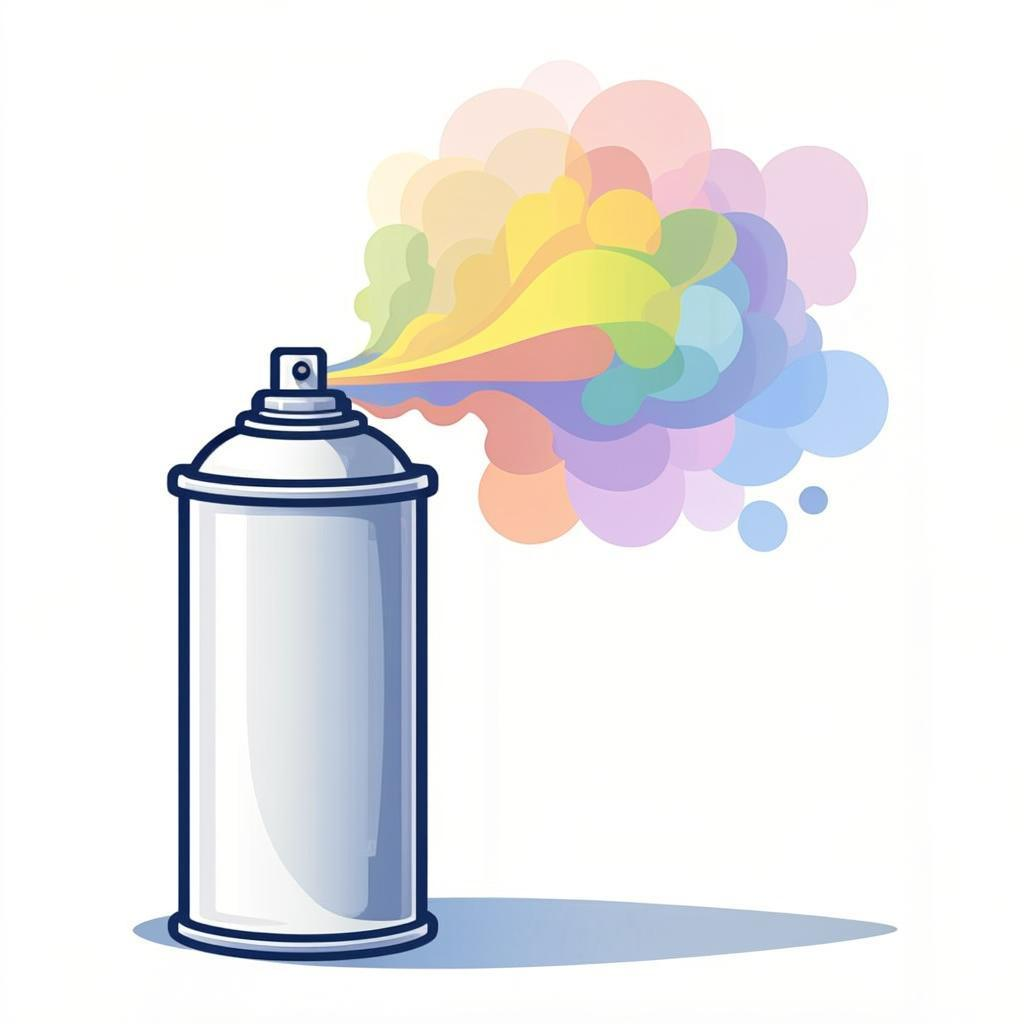
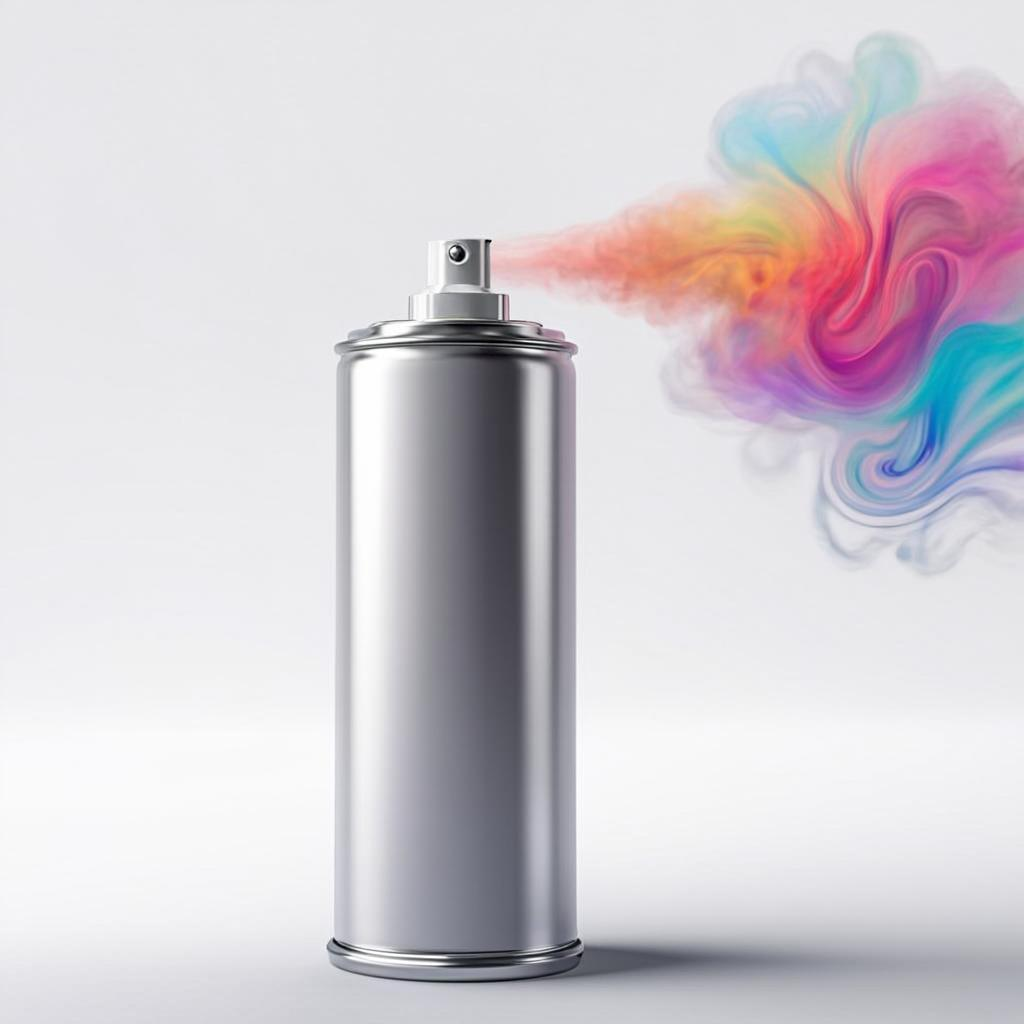
e66dc061-c793-420b-b477-1f86747dfbd7

diff --git a/src/lib/kyp/data.ts b/src/lib/kyp/data.ts
@@ -1,0 +1,329 @@
+import {
+  Brain,
+  HeartPulse,
+  Moon,
+  Shield,
+  Sparkles,
+  Activity,
+  Pill,
+  Syringe,
+  Stethoscope,
+  Beaker,
+  FlaskConical,
+  Wine,
+  Cigarette,
+  Droplet,
+  Leaf,
+  Skull,
+  Wind,
+  PillBottle,
+  Zap,
+} from "lucide-react";
+
+export type Category = {
+  id: string;
+  index: string;
+  title: string;
+  description: string;
+  icon: typeof Brain;
+  accent: string; // tailwind gradient classes
+};
+
+export const categories: Category[] = [
+  {
+    id: "mood",
+    index: "01",
+    title: "Mood & Depression",
+    description:
+      "Serotonin balance, mood regulation, emotional recovery, and treatment pathways for affective disorders.",
+    icon: HeartPulse,
+    accent: "from-teal-400/20 to-emerald-500/10",
+  },
+  {
+    id: "psychosis",
+    index: "02",
+    title: "Psychosis & Thought Disorders",
+    description:
+      "Dopamine pathways, cognition, perception, behavioural stability, and neural signalling in psychosis.",
+    icon: Brain,
+    accent: "from-violet-400/20 to-purple-500/10",
+  },
+  {
+    id: "stability",
+    index: "03",
+    title: "Emotional Stability",
+    description:
+      "Neuron signalling balance, mood regulation, and long-term emotional stabilization with mood stabilisers.",
+    icon: Activity,
+    accent: "from-amber-400/20 to-orange-500/10",
+  },
+  {
+    id: "anxiety",
+    index: "04",
+    title: "Anxiety & Calmness",
+    description:
+      "GABA activity, stress response, calming neural pathways, and relaxation support for anxiety disorders.",
+    icon: Shield,
+    accent: "from-cyan-400/20 to-sky-500/10",
+  },
+  {
+    id: "sleep",
+    index: "05",
+    title: "Sleep & Recovery",
+    description:
+      "Sleep cycles, restorative brain function, relaxation pathways, and sleep regulation mechanisms.",
+    icon: Moon,
+    accent: "from-indigo-400/20 to-blue-500/10",
+  },
+];
+
+export type MedicationClass = {
+  id: string;
+  number: string;
+  title: string;
+  description: string;
+  icon: typeof Brain;
+  href: string;
+  chips: string[];
+  featured?: boolean;
+  comingSoon?: boolean;
+};
+
+export const medicationClasses: MedicationClass[] = [
+  {
+    id: "psychiatric",
+    number: "01",
+    title: "Psychiatric Medications",
+    description:
+      "Explore antidepressants, antipsychotics, mood stabilisers, and anxiety medications through simplified neuroscience explanations.",
+    icon: Brain,
+    href: "/psychiatric.html",
+    chips: ["Sertraline", "Fluoxetine", "Escitalopram", "Olanzapine", "Risperidone", "Lithium"],
+    featured: true,
+  },
+  {
+    id: "pain",
+    number: "02",
+    title: "Pain Management",
+    description:
+      "Non-opioid analgesics, NSAIDs, opioid analgesics, and neuropathic pain agents — how they block pain signals.",
+    icon: Pill,
+    href: "/pain-management.html",
+    chips: ["Paracetamol", "Ibuprofen", "Morphine", "Gabapentin"],
+    comingSoon: true,
+  },
+  {
+    id: "antibiotics",
+    number: "03",
+    title: "Antibiotics",
+    description:
+      "Bacterial cell wall synthesis inhibitors, protein synthesis blockers, and DNA replication disruptors explained visually.",
+    icon: Beaker,
+    href: "/antibiotics.html",
+    chips: ["Amoxicillin", "Azithromycin", "Ciprofloxacin"],
+  },
+  {
+    id: "substance-use",
+    number: "04",
+    title: "Substance Use Disorders",
+    description:
+      "Understand how psychoactive substances alter brain chemistry, the neuroscience of addiction, withdrawal, and recovery.",
+    icon: FlaskConical,
+    href: "/substance-use.html",
+    chips: ["Alcohol", "Cannabis", "Opioids", "Cocaine", "Nicotine"],
+    featured: true,
+  },
+];
+
+export type Substance = {
+  id: string;
+  name: string;
+  drugClass: string;
+  description: string;
+  icon: typeof Wine;
+  href: string;
+  accent: string; // tailwind text/border tint
+  neurotransmitter: string;
+};
+
+export const substances: Substance[] = [
+  {
+    id: "alcohol",
+    name: "Alcohol",
+    drugClass: "CNS Depressant",
+    description:
+      "Enhances GABA inhibition and releases dopamine — leading to slurred speech, loss of coordination, and severe physical withdrawal.",
+    icon: Wine,
+    href: "/alcohol.html",
+    accent: "text-rose-500",
+    neurotransmitter: "GABA · Dopamine · Glutamate",
+  },
+  {
+    id: "cannabis",
+    name: "Cannabis",
+    drugClass: "Cannabinoid",
+    description:
+      "Activates CB1 receptors in the brain — altering perception, mood, memory, and appetite through endocannabinoid modulation.",
+    icon: Leaf,
+    href: "/cannabis.html",
+    accent: "text-emerald-500",
+    neurotransmitter: "Anandamide · Dopamine",
+  },
+  {
+    id: "opioids",
+    name: "Opioids",
+    drugClass: "Opioid Agonist",
+    description:
+      "Bind to μ-opioid receptors — producing profound analgesia, euphoria, respiratory depression, and high dependence risk.",
+    icon: Droplet,
+    href: "/opioids.html",
+    accent: "text-blue-500",
+    neurotransmitter: "Endorphin · Dopamine",
+  },
+  {
+    id: "cocaine",
+    name: "Cocaine",
+    drugClass: "Stimulant",
+    description:
+      "Blocks dopamine, serotonin, and norepinephrine reuptake — producing intense euphoria, tachycardia, and severe crash.",
+    icon: Zap,
+    href: "/cocaine.html",
+    accent: "text-amber-500",
+    neurotransmitter: "Dopamine · Norepinephrine",
+  },
+  {
+    id: "nicotine",
+    name: "Nicotine",
+    drugClass: "Stimulant",
+    description:
+      "Activates nicotinic acetylcholine receptors — triggering dopamine release in reward pathways and rapid dependence.",
+    icon: Cigarette,
+    href: "/nicotine.html",
+    accent: "text-orange-500",
+    neurotransmitter: "Acetylcholine · Dopamine",
+  },
+  {
+    id: "amphetamine",
+    name: "Amphetamines",
+    drugClass: "Stimulant",
+    description:
+      "Reverses dopamine and norepinephrine transporters — flooding synapses with catecholamines, producing alertness and euphoria.",
+    icon: Zap,
+    href: "/amphetamine.html",
+    accent: "text-yellow-500",
+    neurotransmitter: "Dopamine · Norepinephrine",
+  },
+  {
+    id: "benzodiazepines",
+    name: "Benzodiazepines",
+    drugClass: "CNS Depressant",
+    description:
+      "Positive allosteric modulators of GABA-A receptors — producing anxiolysis, sedation, and dangerous withdrawal seizures.",
+    icon: PillBottle,
+    href: "/benzodiazepines.html",
+    accent: "text-sky-500",
+    neurotransmitter: "GABA",
+  },
+  {
+    id: "barbiturate",
+    name: "Barbiturates",
+    drugClass: "CNS Depressant",
+    description:
+      "Direct GABA-A agonists with narrow therapeutic index — historical anaesthetics with high overdose and dependence risk.",
+    icon: PillBottle,
+    href: "/barbiturate.html",
+    accent: "text-indigo-500",
+    neurotransmitter: "GABA",
+  },
+  {
+    id: "inhalants",
+    name: "Inhalants",
+    drugClass: "Volatile Solvent",
+    description:
+      "Lipophilic solvents that rapidly cross the blood-brain barrier — producing brief intoxication and severe neurotoxicity.",
+    icon: Wind,
+    href: "/inhalants.html",
+    accent: "text-cyan-500",
+    neurotransmitter: "GABA · NMDA",
+  },
+  {
+    id: "lsd",
+    name: "LSD",
+    drugClass: "Hallucinogen",
+    description:
+      "5-HT2A receptor partial agonist — producing profound alterations in perception, mood, and sense of self lasting 8-12 hours.",
+    icon: Sparkles,
+    href: "/lsd.html",
+    accent: "text-fuchsia-500",
+    neurotransmitter: "Serotonin",
+  },
+  {
+    id: "pcp",
+    name: "PCP",
+    drugClass: "Dissociative",
+    description:
+      "NMDA receptor antagonist — producing dissociation, hallucinations, analgesia, and dangerous behavioural effects.",
+    icon: Skull,
+    href: "/pcp.html",
+    accent: "text-purple-500",
+    neurotransmitter: "Glutamate (NMDA)",
+  },
+  {
+    id: "withdrawal",
+    name: "Withdrawal State",
+    drugClass: "Clinical Pattern · ICD-10",
+    description:
+      "Recognise the neuroscience and clinical presentation of substance withdrawal states — symptoms, timelines, and management.",
+    icon: Activity,
+    href: "/withdrawal-state.html",
+    accent: "text-teal-500",
+    neurotransmitter: "Multi-system",
+  },
+];
+
+export type Stat = {
+  label: string;
+  value: string;
+  description: string;
+};
+
+export const stats: Stat[] = [
+  {
+    label: "Drug pages",
+    value: "12+",
+    description: "Substance-specific deep dives with neuroscience breakdowns",
+  },
+  {
+    label: "Medication classes",
+    value: "4",
+    description: "Psychiatric, pain, antibiotics, and substance use modules",
+  },
+  {
+    label: "Emergency contacts",
+    value: "24/7",
+    description: "Tele-MANAS mental health helpline and emergency services",
+  },
+  {
+    label: "Audience",
+    value: "Dual",
+    description: "Built for both patients and MBBS / NEET-PG students",
+  },
+];
+
+export const emergencyContacts = [
+  {
+    label: "Emergency Services",
+    number: "112",
+    description: "All India emergency number — medical, police, fire",
+  },
+  {
+    label: "Tele-MANAS",
+    number: "14416",
+    description: "National mental health helpline — free, confidential, 24/7",
+  },
+  {
+    label: "Poison Control",
+    number: "1800-222-1222",
+    description: "Acute intoxication & poisoning support",
+  },
+];

diff --git a/scripts/gen-unique-artwork.ts b/scripts/gen-unique-artwork.ts
@@ -1,0 +1,28 @@
+import ZAI from 'z-ai-web-dev-sdk';
+import fs from 'fs';
+
+const STYLE = "modern medical illustration, clean minimalist design, soft gradient background from white to light blue, professional healthcare aesthetic, 3D rendered style with soft shadows, centered composition, no text, high quality, detailed";
+
+const items = [
+  { name: 'cannabis', prompt: `A stylized green cannabis leaf with visible veins, ${STYLE}` },
+  { name: 'barbiturate', prompt: `Several blue and white sleeping pill capsules scattered with a crescent moon symbol, ${STYLE}` },
+  { name: 'inhalants', prompt: `An aerosol spray can releasing a colorful chemical vapor cloud, ${STYLE}` },
+  { name: 'withdrawal', prompt: `A human brain with visible cracks and glitch effect showing neurotransmitter chaos, ${STYLE}` },
+];
+
+async function main() {
+  const zai = await ZAI.create();
+  for (const item of items) {
+    try {
+      console.log(`Generating ${item.name}...`);
+      const res = await zai.images.generations.create({ prompt: item.prompt, size: '1024x1024' });
+      const buf = Buffer.from(res.data[0].base64, 'base64');
+      fs.writeFileSync(`/home/z/my-project/public/artwork/${item.name}.png`, buf);
+      console.log(`  OK ${item.name}.png (${buf.length} bytes)`);
+    } catch (e) {
+      console.error(`  FAIL ${item.name}: ${e.message}`);
+    }
+  }
+  console.log('Done!');
+}
+main();
